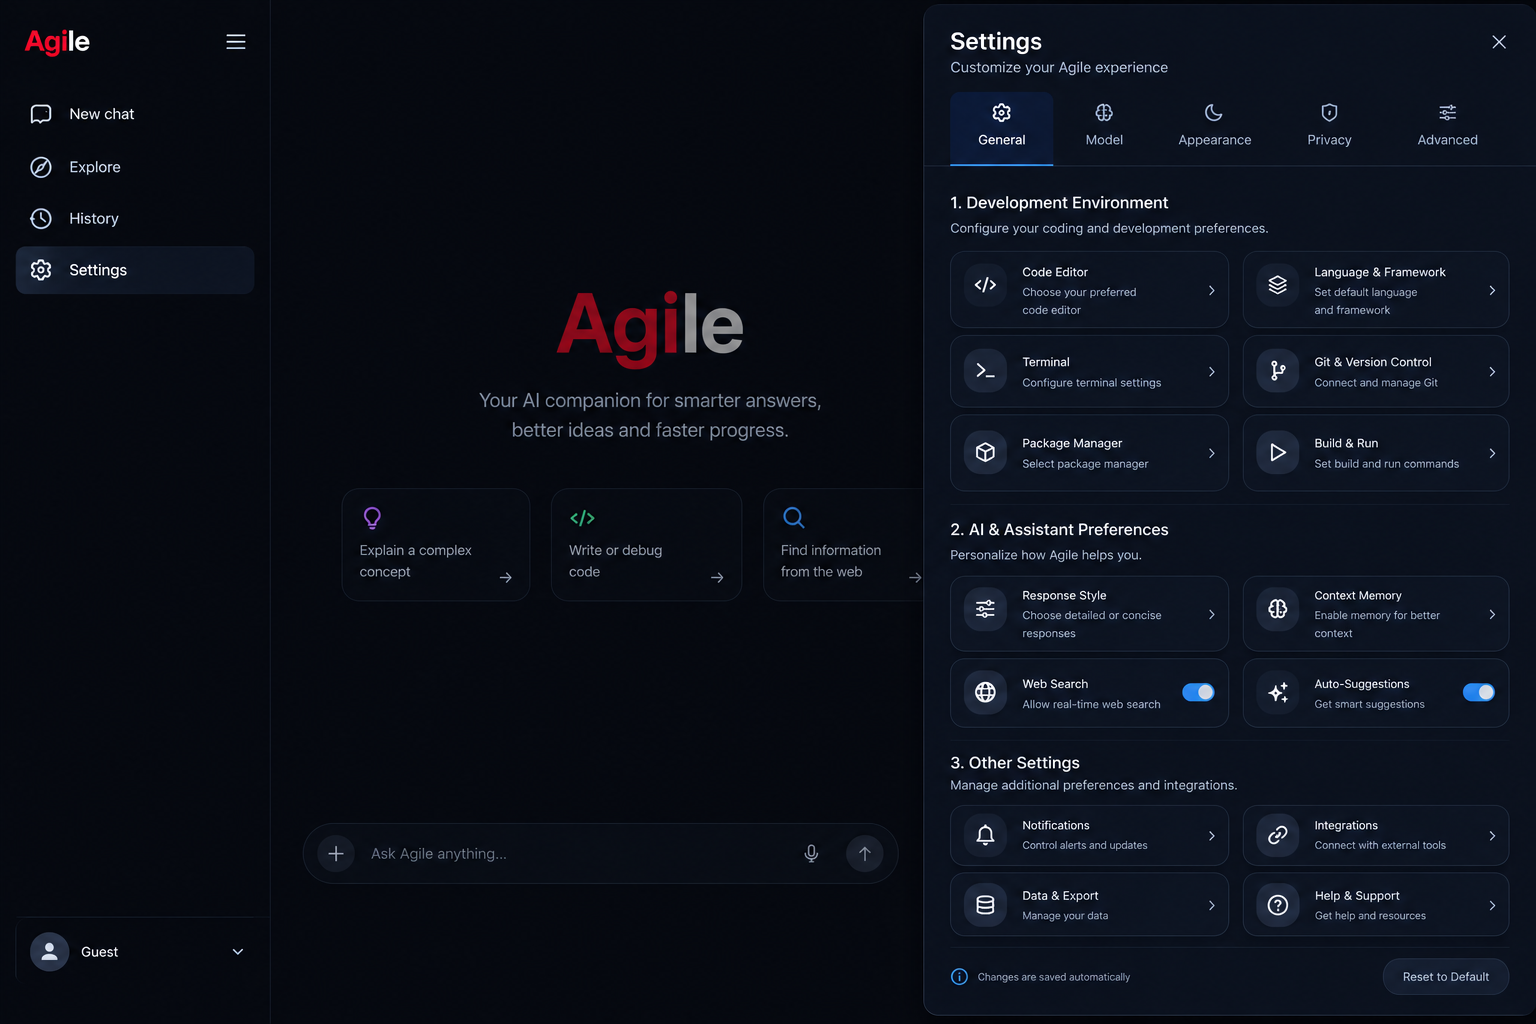
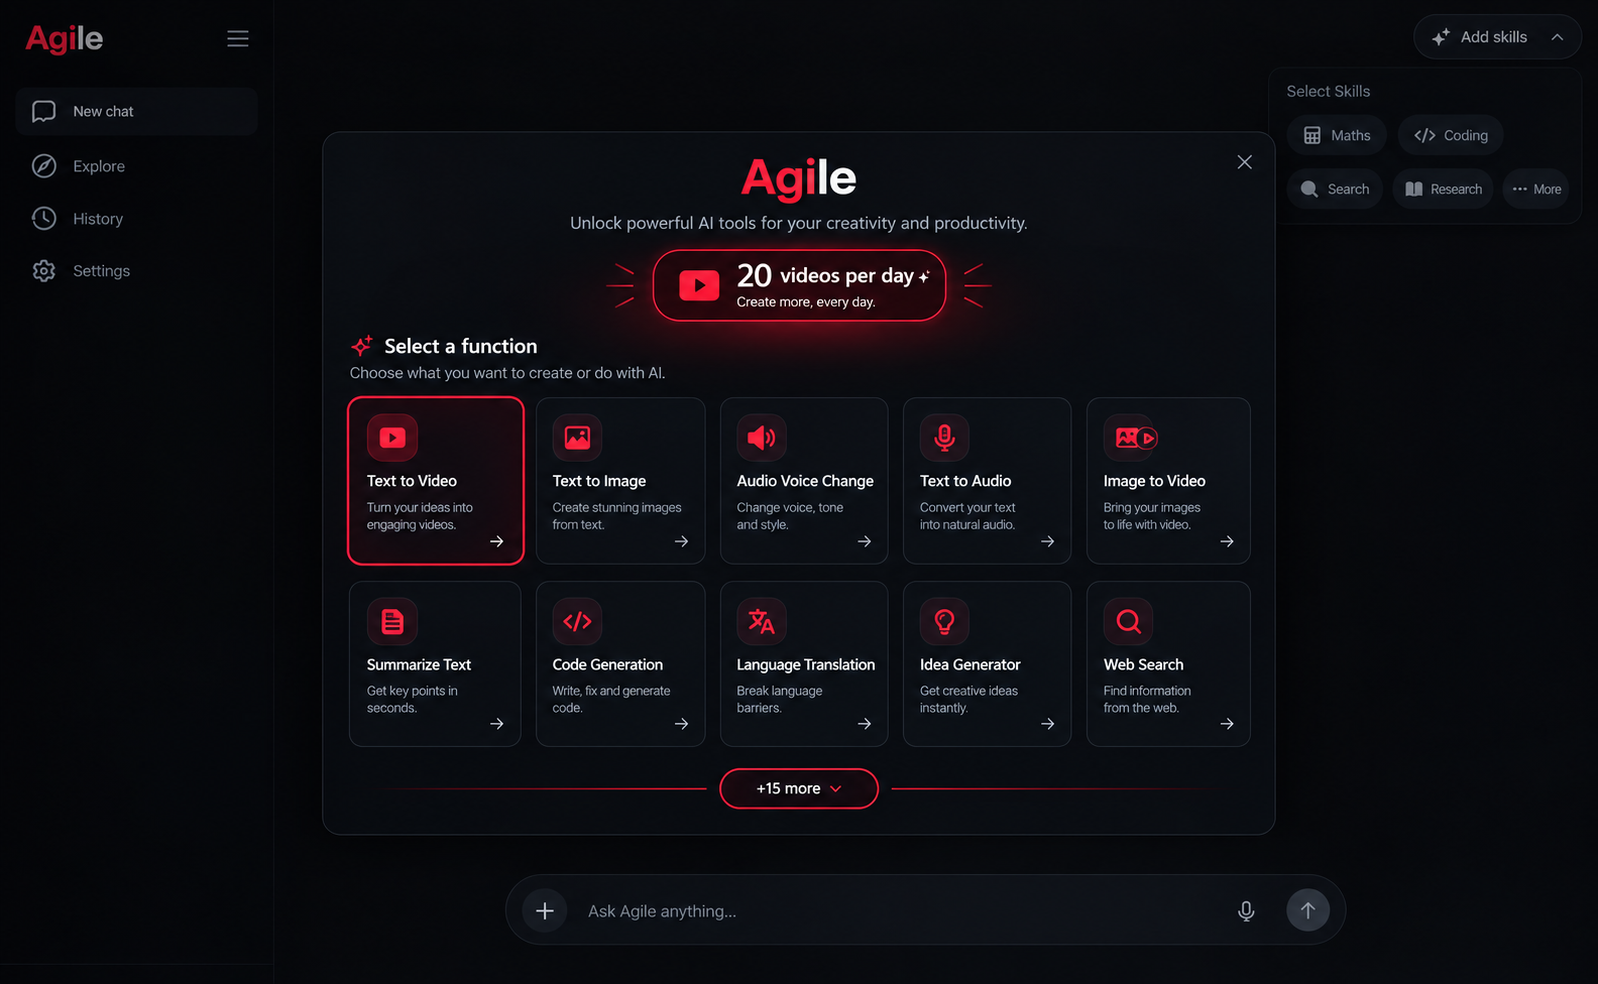
update image

diff --git a/index.html b/index.html
@@ -936,7 +936,7 @@ footer{
       <div class="showcase-visual reveal" style="transition-delay:.12s">
         <div class="img-frame browser">
           <!-- IMAGE 2 — Agile AGI interface (secondary view) -->
-          <img src="img3_3.png" alt="Agile AGI detailed reasoning view" loading="lazy" />
+          <img src="img3.png" alt="Agile AGI detailed reasoning view" loading="lazy" />
         </div>
         <div class="img-badge"><span class="dot"></span> Matrix reasoning view</div>
         <div class="img-caption">Deep reasoning and memory panel</div>
@@ -960,7 +960,7 @@ footer{
     <div class="full-img-wrap reveal">
       <div class="img-frame">
         <!-- IMAGE 3 — Research -->
-        <img src="img2_2.png" alt="Agile AGI research and matrix architecture" loading="lazy" />
+        <img src="img2.png" alt="Agile AGI research and matrix architecture" loading="lazy" />
       </div>
       <div class="img-caption" style="justify-content:center;margin-top:22px">
         You can select needed select for your project
